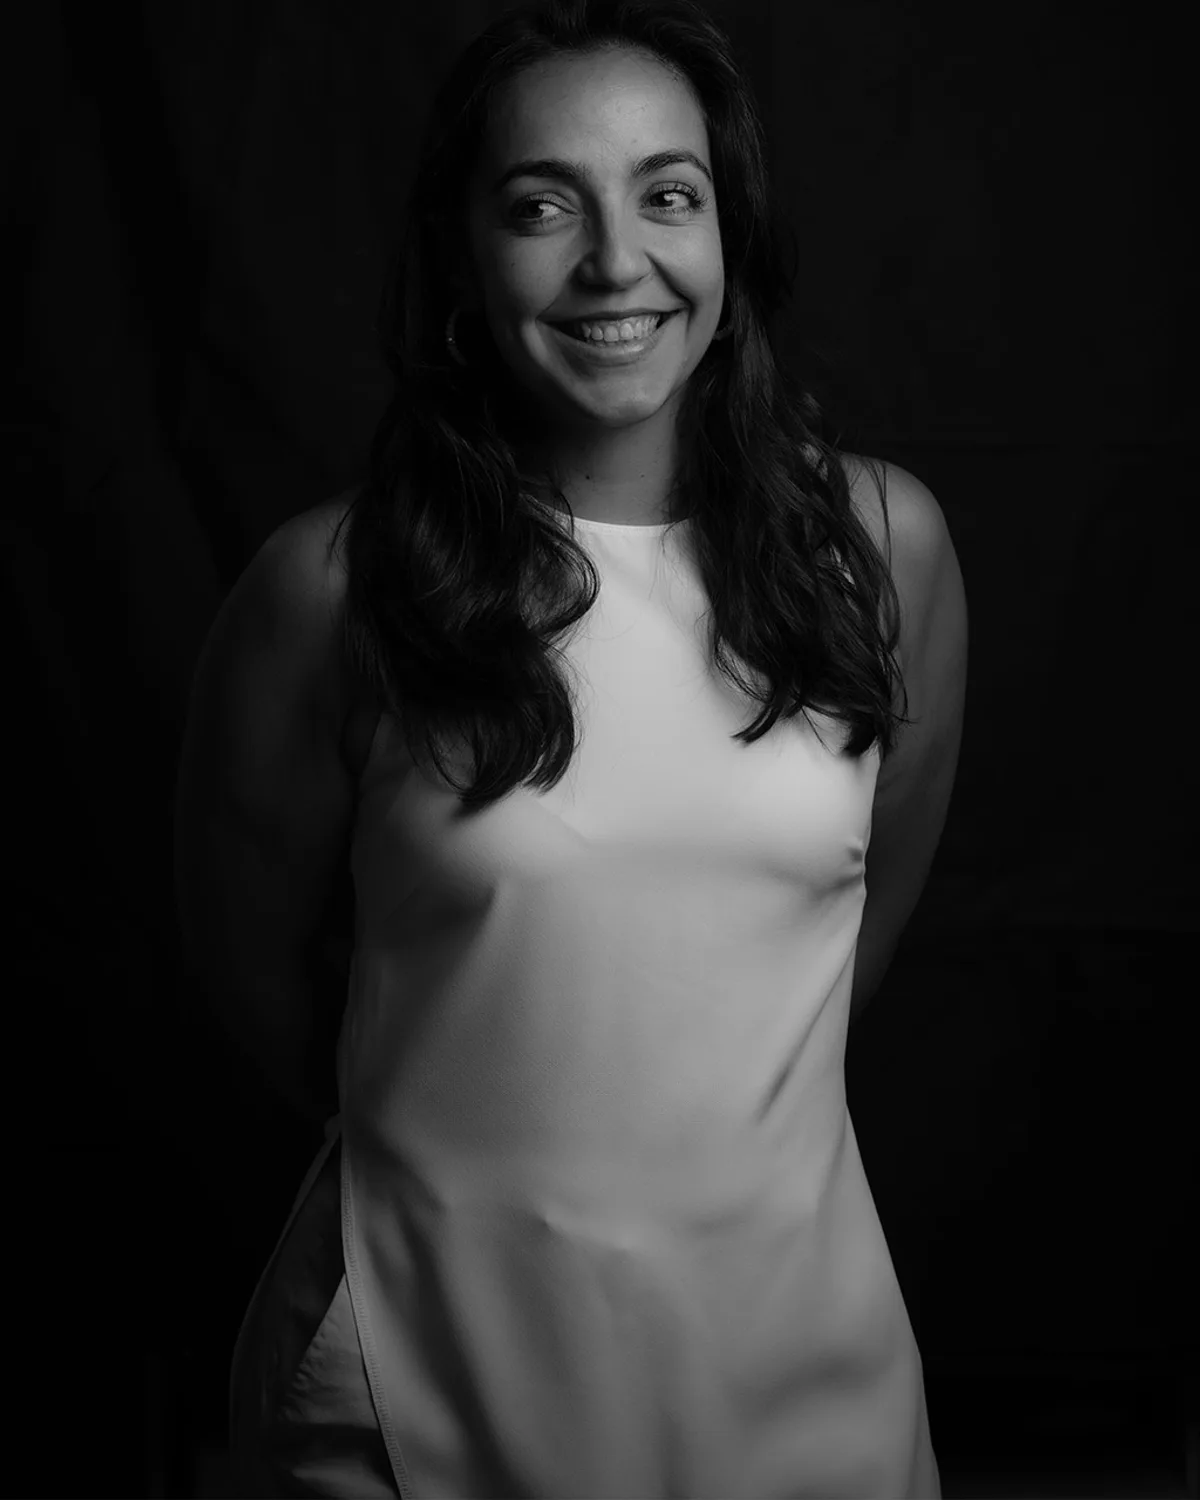
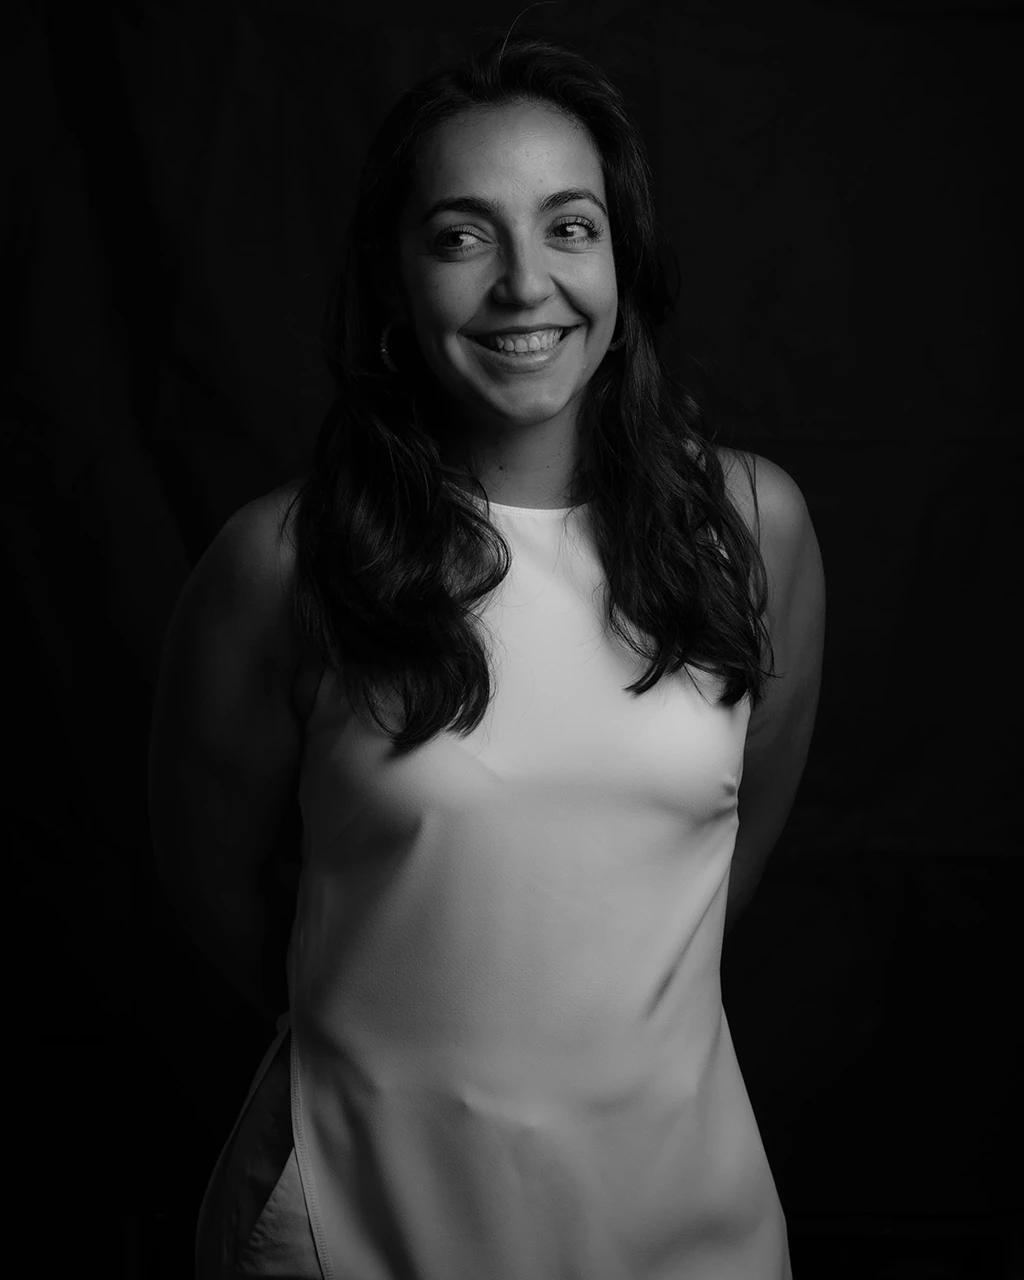
Site tweaks: kicker on one line (mobile), area formatting, consistent header line-heights, gallery dash fix, Santa Gloria, studio spacing + re-exported team photos

diff --git a/app/globals.css b/app/globals.css
@@ -352,7 +352,7 @@ button { font: inherit; }
   font-size: clamp(4rem, 9.4vw, 10rem);
   font-weight: 700;
   letter-spacing: -0.065em;
-  line-height: 0.86;
+  line-height: 0.96;
   text-wrap: balance;
 }
 
@@ -603,7 +603,7 @@ button { font: inherit; }
   font-size: clamp(2.8rem, 5.2vw, 6.2rem);
   font-weight: 700;
   letter-spacing: -0.065em;
-  line-height: 0.83;
+  line-height: 0.96;
 }
 
 .handoff-facts {
@@ -842,7 +842,7 @@ button { font: inherit; }
   font-size: clamp(2.75rem, 5.8vw, 6.5rem);
   font-weight: 500;
   letter-spacing: -0.07em;
-  line-height: 0.9;
+  line-height: 0.96;
 }
 
 .process-heading p {
@@ -1095,7 +1095,7 @@ button { font: inherit; }
   font-size: clamp(3rem, 8.2vw, 9.5rem);
   font-weight: 800;
   letter-spacing: -0.07em;
-  line-height: 0.86;
+  line-height: 0.96;
   text-transform: uppercase;
   transition: opacity 260ms ease;
 }
@@ -1162,7 +1162,7 @@ button { font: inherit; }
   font-size: clamp(3.8rem, 7.8vw, 9rem);
   font-weight: 700;
   letter-spacing: -0.075em;
-  line-height: 0.94;
+  line-height: 0.96;
   text-transform: uppercase;
 }
 
@@ -1378,7 +1378,7 @@ button { font: inherit; }
   font-size: clamp(3.8rem, 7.5vw, 8.5rem);
   font-weight: 700;
   letter-spacing: -0.07em;
-  line-height: 0.9;
+  line-height: 0.96;
   text-transform: uppercase;
 }
 
@@ -1484,7 +1484,7 @@ button { font: inherit; }
   font-size: clamp(2.5rem, 4.8vw, 5.5rem);
   font-weight: 600;
   letter-spacing: -0.065em;
-  line-height: 0.9;
+  line-height: 0.96;
   text-transform: uppercase;
 }
 
@@ -1536,7 +1536,7 @@ button { font: inherit; }
   font-size: clamp(3rem, 7vw, 8rem);
   font-weight: 800;
   letter-spacing: -0.065em;
-  line-height: 0.88;
+  line-height: 0.96;
   text-transform: uppercase;
   transition: opacity 220ms ease;
 }
@@ -1600,7 +1600,7 @@ button { font: inherit; }
   font-size: clamp(3.5rem, 7vw, 8rem);
   font-weight: 700;
   letter-spacing: -0.07em;
-  line-height: 0.92;
+  line-height: 0.96;
   text-transform: uppercase;
 }
 
@@ -1683,7 +1683,7 @@ button { font: inherit; }
   font-size: clamp(2.6rem, 4.7vw, 5.5rem);
   font-weight: 650;
   letter-spacing: -0.065em;
-  line-height: 0.92;
+  line-height: 0.96;
   text-transform: uppercase;
 }
 
@@ -1712,17 +1712,17 @@ button { font: inherit; }
 }
 
 .studio-closing {
-  padding-top: clamp(7rem, 12vw, 13rem);
+  padding-top: clamp(4rem, 7vw, 7rem);
 }
 
 .studio-closing > p {
   max-width: 12ch;
-  margin: 0 0 clamp(4rem, 7vw, 7rem);
+  margin: 0 0 clamp(5.5rem, 9vw, 9rem);
   color: var(--loto-red);
   font-size: clamp(3.2rem, 7.5vw, 8.5rem);
   font-weight: 700;
   letter-spacing: -0.07em;
-  line-height: 0.88;
+  line-height: 0.96;
   text-transform: uppercase;
 }
 
@@ -1741,7 +1741,7 @@ button { font: inherit; }
   font-size: clamp(3rem, 7vw, 8rem);
   font-weight: 800;
   letter-spacing: -0.065em;
-  line-height: 0.88;
+  line-height: 0.96;
   text-transform: uppercase;
   transition: opacity 220ms ease;
 }
@@ -1858,7 +1858,7 @@ button { font: inherit; }
   font-size: clamp(5rem, 12vw, 13rem);
   font-weight: 700;
   letter-spacing: -0.075em;
-  line-height: 0.82;
+  line-height: 0.96;
   text-transform: uppercase;
 }
 
@@ -2086,7 +2086,7 @@ button { font: inherit; }
   font-size: clamp(1.55rem, 2.65vw, 3.2rem);
   font-weight: 500;
   letter-spacing: -0.065em;
-  line-height: 0.92;
+  line-height: 1;
 }
 
 .gallery-facts {
@@ -2264,7 +2264,7 @@ button { font: inherit; }
   .studio-intro h1 {
     max-width: 10ch;
     font-size: clamp(3rem, 13vw, 5rem);
-    line-height: 0.94;
+    line-height: 0.96;
   }
 
   .studio-intro-copy {
@@ -2294,10 +2294,10 @@ button { font: inherit; }
     font-size: clamp(2.7rem, 12vw, 4.4rem);
   }
 
-  .studio-closing { padding-top: 7rem; }
+  .studio-closing { padding-top: 3.5rem; }
 
   .studio-closing > p {
-    margin-bottom: 4.5rem;
+    margin-bottom: 6rem;
     font-size: clamp(3rem, 13vw, 5rem);
   }
 
@@ -2314,7 +2314,7 @@ button { font: inherit; }
 
   .services-intro h1 {
     font-size: clamp(3.1rem, 13vw, 5rem);
-    line-height: 0.94;
+    line-height: 0.96;
   }
 
   .services-intro p {
@@ -2390,12 +2390,12 @@ button { font: inherit; }
 
   .archive-heading h1 {
     font-size: clamp(3rem, 14vw, 6rem);
-    line-height: 0.86;
+    line-height: 0.96;
   }
 
   .archive-heading p {
     max-width: 21rem;
-    margin-top: 2rem;
+    margin-top: 1rem;
   }
 
   .archive-grid {
@@ -2444,11 +2444,14 @@ button { font: inherit; }
   .opening-content h1 {
     max-width: 9ch;
     font-size: clamp(3.5rem, 15.6vw, 6rem);
-    line-height: 0.88;
+    line-height: 0.96;
   }
 
   .opening-kicker {
-    max-width: 14rem;
+    max-width: none;
+    white-space: nowrap;
+    font-size: clamp(0.58rem, 2.9vw, 0.67rem);
+    letter-spacing: 0.12em;
     line-height: 1.45;
   }
 
@@ -2832,7 +2835,7 @@ button { font: inherit; }
   font-size: clamp(2.5rem, 12vw, 4rem);
   font-weight: 700;
   letter-spacing: -0.05em;
-  line-height: 0.95;
+  line-height: 0.96;
   text-transform: uppercase;
 }
 

diff --git a/app/proyectos/page.tsx b/app/proyectos/page.tsx
@@ -138,7 +138,7 @@ const sourceProjects: GalleryProject[] = [
     year: "En proceso",
     area: "82 m²",
     discipline: "Hostelería · Interiorismo",
-    description: "Una intervención desarrollada en colaboración y en diálogo directo con el universo de marca de SantaGloria. El proyecto traslada su lenguaje de materiales, color y detalle al contexto aeroportuario, buscando un equilibrio entre funcionalidad, calidez y elegancia, con una imagen cuidada y reconocible incluso en un entorno de tránsito constante.",
+    description: "Una intervención desarrollada en colaboración y en diálogo directo con el universo de marca de Santa Gloria. El proyecto traslada su lenguaje de materiales, color y detalle al contexto aeroportuario, buscando un equilibrio entre funcionalidad, calidez y elegancia, con una imagen cuidada y reconocible incluso en un entorno de tránsito constante.",
     images: [asset("santa-gloria", "main pro.jpg")],
     alt: "Proyecto Santa Gloria en el aeropuerto de Santiago",
   },

diff --git a/app/page.tsx b/app/page.tsx
@@ -109,7 +109,7 @@ const projectCatalog: Record<ProjectKey, Project> = {
     name: "Taxi Driver Barajas",
     place: "Bolsa de taxis · Madrid-Barajas",
     year: "2025",
-    area: "150,00 m²",
+    area: "150 m²",
     discipline: "Arquitectura efímera · Hospitality",
     description: "No queríamos diseñar un food truck. Queríamos construir un lugar extraño y cercano en mitad del asfalto. Una pequeña arquitectura envuelta por una segunda piel que se separa, se pliega y se extiende hasta convertirse en bancada, umbral y refugio. Bajo esa envolvente metálica aparece un interior rojo, cálido y casi doméstico. Una pausa inesperada dentro del movimiento continuo de los taxis.",
     images: [

diff --git a/components/project-gallery.tsx b/components/project-gallery.tsx
@@ -76,7 +76,7 @@ export function ProjectGallery({
                   <span>{project.number} / {String(Object.keys(projects).length).padStart(2, "0")}</span>
                   <DialogTitle>{project.name}</DialogTitle>
                   <p className="gallery-facts">{project.discipline}</p>
-                  <p className="gallery-facts">{project.year} · {project.place} · {project.area}</p>
+                  <p className="gallery-facts">{project.year !== "—" ? `${project.year} · ` : ""}{project.place} · {project.area}</p>
                 </div>
                 <div className="gallery-story">
                   <div className={`gallery-description ${detailsOpen ? "is-expanded" : ""}`}>

diff --git a/app/estudio/page.tsx b/app/estudio/page.tsx
@@ -89,7 +89,7 @@ export default function StudioPage() {
       </div>
 
       <section className="studio-closing" data-studio-reveal>
-        <p>Dos miradas.<br />Un mismo proyecto.</p>
+        <p>Dos miradas,<br />Un mismo proyecto</p>
         <a href="/contacto">
           <span>¿Qué tienes entre manos?</span>
           <RoundArrow className="studio-cta-arrow" />
